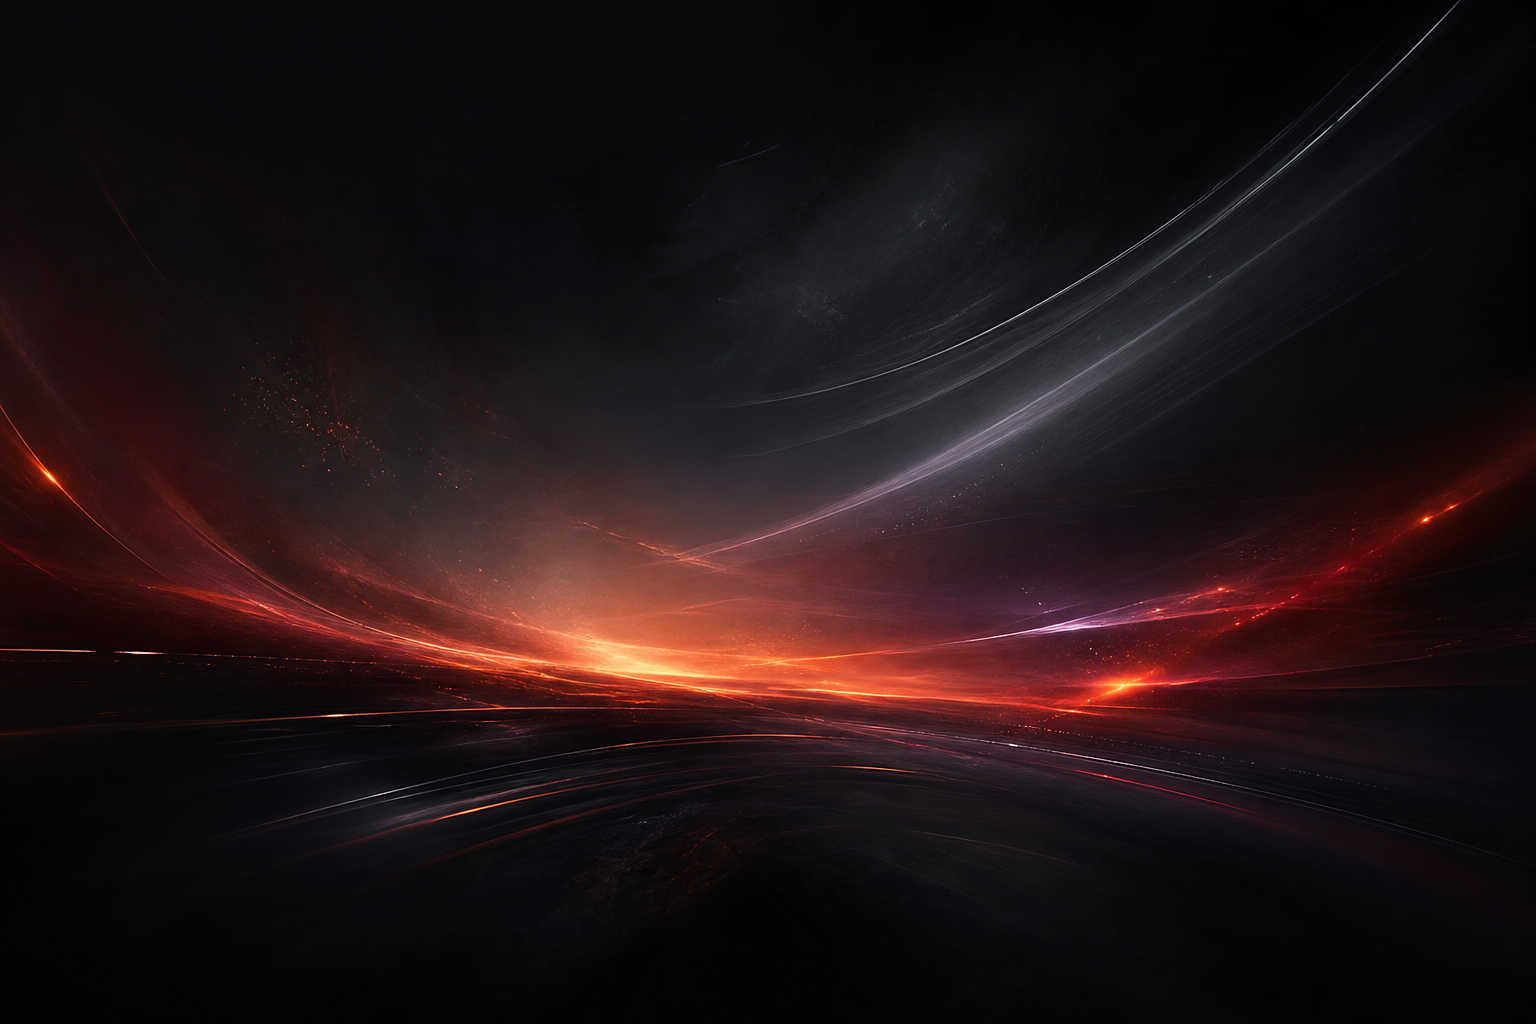
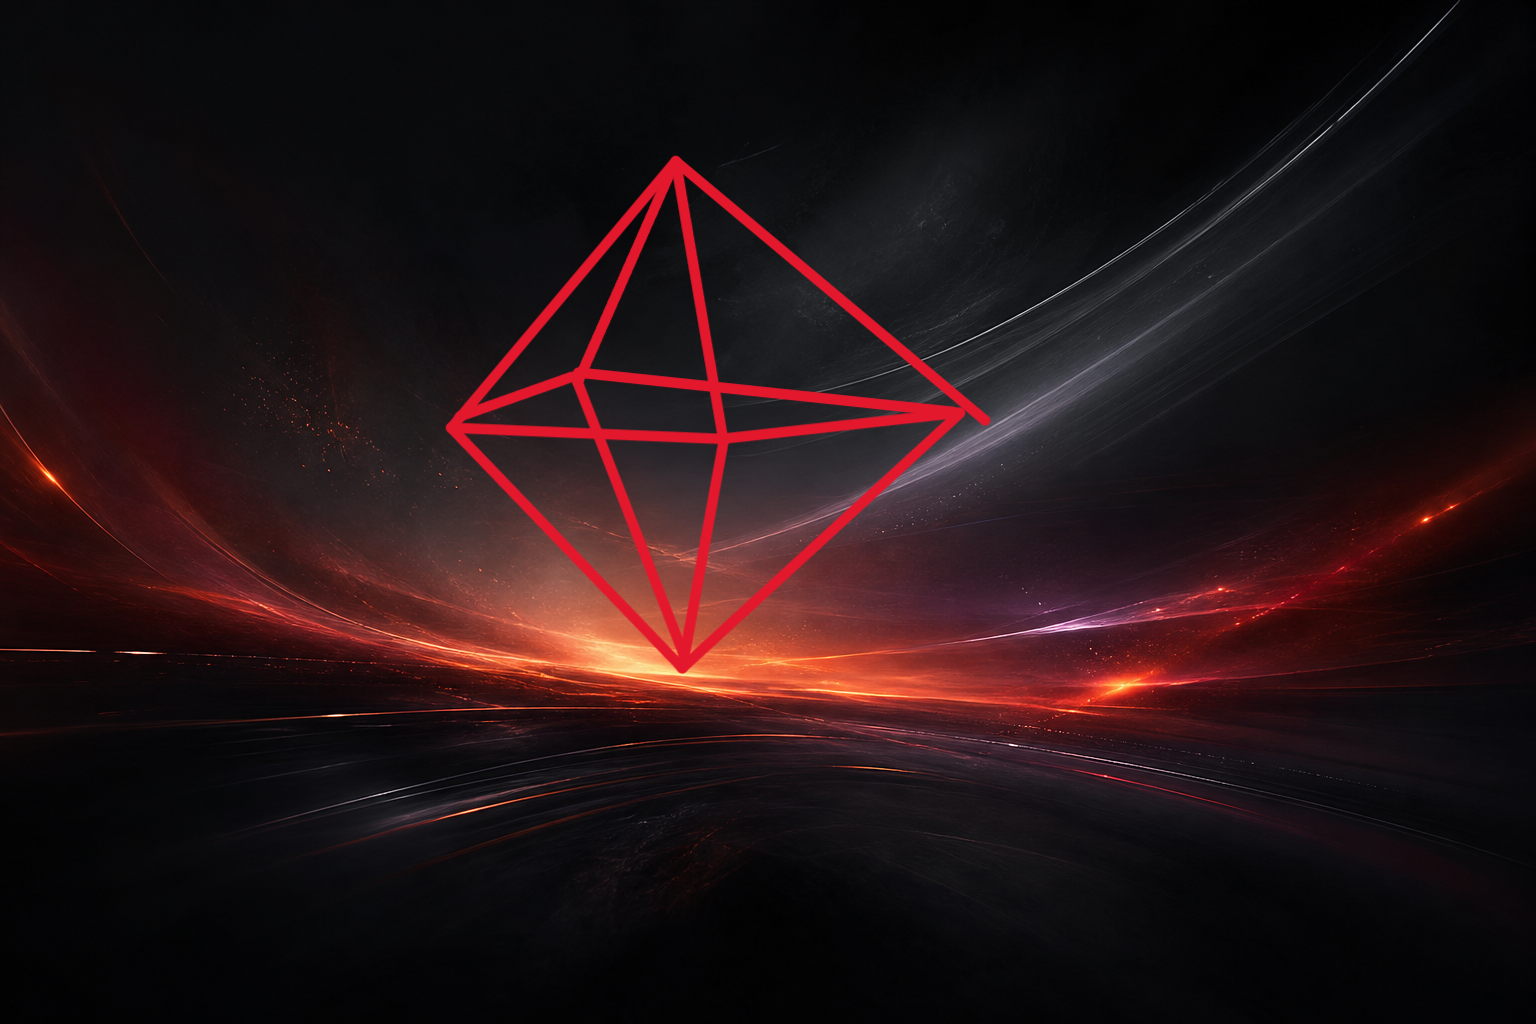
31/05/2026

Changed region(s): [[0.2812, 0.1562, 0.6562, 0.6562], [0.5625, 0.3125, 0.5938, 0.3438]]

diff --git a/src/app/home/home.page.scss b/src/app/home/home.page.scss
@@ -150,14 +150,14 @@ a {
   --diamond-rotate-x: -10deg;
   --diamond-rotate-y: -18deg;
   cursor: grab;
-  height: min(74vw, 390px);
+  height: min(72vw, 390px);
   max-height: 390px;
   max-width: 390px;
-  perspective: 1200px;
+  perspective: 1100px;
   position: relative;
   touch-action: none;
   user-select: none;
-  width: min(74vw, 390px);
+  width: min(72vw, 390px);
 }
 
 .diamond-stage:active {
@@ -166,10 +166,10 @@ a {
 
 .diamond-aura {
   background:
-    radial-gradient(circle, rgba(255, 122, 61, 0.34), transparent 58%),
-    radial-gradient(circle, rgba(255, 255, 255, 0.18), transparent 45%);
-  filter: blur(22px);
-  inset: 3%;
+    radial-gradient(ellipse at 50% 57%, rgba(255, 34, 57, 0.32), transparent 48%),
+    radial-gradient(ellipse at 50% 100%, rgba(255, 128, 52, 0.24), transparent 42%);
+  filter: blur(18px);
+  inset: 4% 0;
   opacity: 0.95;
   position: absolute;
 }
@@ -188,91 +188,74 @@ a {
   width: 100%;
 }
 
-.diamond-core::before,
-.diamond-core::after {
-  content: '';
-  inset: 0;
-  pointer-events: none;
-  position: absolute;
-}
-
-.diamond-core::before {
-  background:
-    linear-gradient(90deg, transparent 49.7%, rgba(255, 255, 255, 0.22) 50%, transparent 50.3%),
-    linear-gradient(0deg, transparent 49.7%, rgba(255, 255, 255, 0.18) 50%, transparent 50.3%);
-  transform: translateZ(197px);
-  z-index: 5;
-}
-
-.diamond-core::after {
-  background:
-    radial-gradient(circle at 35% 20%, rgba(255, 255, 255, 0.32), transparent 28%),
-    linear-gradient(135deg, rgba(255, 122, 61, 0.18), transparent 58%);
-  opacity: 0.45;
-  transform: translateZ(202px);
-  z-index: 6;
-}
-
-.diamond-face {
+.cube-face {
   align-items: center;
   background:
-    linear-gradient(145deg, rgba(255, 255, 255, 0.18), rgba(255, 122, 61, 0.1) 52%, rgba(5, 5, 6, 0.44)),
-    rgba(12, 12, 14, 0.82);
-  border: 1px solid rgba(255, 255, 255, 0.24);
+    radial-gradient(circle at 28% 18%, rgba(255, 255, 255, 0.16), transparent 28%),
+    linear-gradient(145deg, rgba(255, 94, 31, 0.22), rgba(255, 23, 54, 0.14) 42%, rgba(0, 0, 0, 0.74));
+  border: 1px solid rgba(255, 117, 52, 0.58);
   box-shadow:
-    inset 0 1px 18px rgba(255, 255, 255, 0.18),
-    inset 0 -20px 40px rgba(0, 0, 0, 0.22),
-    0 24px 60px rgba(0, 0, 0, 0.28);
-  backdrop-filter: blur(6px);
+    inset 0 1px 22px rgba(255, 255, 255, 0.1),
+    inset 0 -28px 48px rgba(0, 0, 0, 0.42),
+    0 0 18px rgba(255, 67, 36, 0.26);
   color: #fff8f1;
   display: grid;
-  gap: 0.35rem;
+  gap: 0.45rem;
   height: 100%;
-  justify-items: center;
   left: 0;
-  padding: 2.4rem;
+  padding: 2.1rem;
   place-content: center;
   position: absolute;
   text-align: center;
   top: 0;
   transform-style: preserve-3d;
   transition:
-    background 180ms ease,
     border-color 180ms ease,
-    box-shadow 180ms ease;
+    box-shadow 180ms ease,
+    background 180ms ease;
   width: 100%;
 }
 
-.diamond-face:hover {
-  background:
-    linear-gradient(145deg, rgba(255, 255, 255, 0.34), rgba(255, 151, 83, 0.24), rgba(228, 72, 34, 0.18)),
-    rgba(18, 14, 12, 0.72);
-  border-color: rgba(255, 159, 93, 0.7);
-  box-shadow:
-    inset 0 1px 22px rgba(255, 255, 255, 0.2),
-    0 28px 80px rgba(228, 72, 34, 0.24);
+.cube-face::before {
+  border: 1px solid rgba(255, 255, 255, 0.09);
+  content: '';
+  inset: 0.7rem;
+  pointer-events: none;
+  position: absolute;
 }
 
-.diamond-face ion-icon,
-.diamond-face strong,
-.diamond-face span {
+.cube-face:hover {
+  background:
+    radial-gradient(circle at 28% 18%, rgba(255, 255, 255, 0.22), transparent 28%),
+    linear-gradient(145deg, rgba(255, 124, 53, 0.34), rgba(255, 23, 54, 0.2) 42%, rgba(0, 0, 0, 0.68));
+  border-color: rgba(255, 154, 95, 0.95);
+  box-shadow:
+    inset 0 1px 24px rgba(255, 255, 255, 0.14),
+    inset 0 -28px 48px rgba(0, 0, 0, 0.42),
+    0 0 32px rgba(255, 67, 36, 0.44);
+}
+
+.cube-face ion-icon,
+.cube-face strong,
+.cube-face span {
   position: relative;
   z-index: 1;
 }
 
-.diamond-face ion-icon {
-  color: #ff9a5f;
-  font-size: 2rem;
+.cube-face ion-icon {
+  color: #ff7a3d;
+  filter: drop-shadow(0 0 10px rgba(255, 67, 36, 0.72));
+  font-size: 2.1rem;
 }
 
-.diamond-face strong {
-  font-size: 1.15rem;
+.cube-face strong {
+  font-size: 1.12rem;
   line-height: 1.1;
 }
 
-.diamond-face span {
-  color: rgba(245, 241, 236, 0.64);
-  font-size: 0.74rem;
+.cube-face span {
+  color: rgba(245, 241, 236, 0.68);
+  font-size: 0.78rem;
   line-height: 1.25;
 }
 
@@ -298,31 +281,6 @@ a {
 
 .face-cv {
   transform: rotateY(180deg) translateZ(195px);
-}
-
-.diamond-center {
-  align-items: center;
-  background:
-    radial-gradient(circle at 35% 20%, rgba(255, 255, 255, 0.3), transparent 32%),
-    linear-gradient(135deg, rgba(255, 122, 61, 0.94), rgba(173, 31, 31, 0.92));
-  border: 1px solid rgba(255, 255, 255, 0.24);
-  box-shadow: 0 20px 70px rgba(228, 72, 34, 0.38);
-  color: #fff;
-  display: grid;
-  height: 5rem;
-  left: calc(50% - 2.5rem);
-  place-items: center;
-  position: absolute;
-  top: calc(50% - 2.5rem);
-  transform: translateZ(205px);
-  width: 5rem;
-}
-
-.diamond-center span {
-  font-size: 0.72rem;
-  font-weight: 900;
-  letter-spacing: 0.08em;
-  text-transform: uppercase;
 }
 
 .eyebrow {
@@ -871,23 +829,23 @@ ion-button[fill='outline'] {
   }
 
   .diamond-stage {
-    height: min(74vw, 280px);
-    width: min(74vw, 280px);
+    height: min(72vw, 280px);
+    width: min(72vw, 280px);
   }
 
-  .diamond-face {
-    padding: 1.2rem;
+  .cube-face {
+    padding: 1rem;
   }
 
-  .diamond-face ion-icon {
+  .cube-face ion-icon {
     font-size: 1.35rem;
   }
 
-  .diamond-face strong {
+  .cube-face strong {
     font-size: 0.82rem;
   }
 
-  .diamond-face span {
+  .cube-face span {
     display: none;
   }
 

diff --git a/src/app/home/home.page.html b/src/app/home/home.page.html
@@ -68,9 +68,10 @@
                   @for (face of diamondFaces; track face.title) {
                     @if (face.route) {
                       <a
-                        class="diamond-face"
+                        class="cube-face"
                         [ngClass]="face.className"
                         [routerLink]="face.route"
+                        [attr.aria-label]="face.title"
                       >
                         <ion-icon [name]="face.icon"></ion-icon>
                         <strong>{{ face.title }}</strong>
@@ -78,11 +79,12 @@
                       </a>
                     } @else {
                       <a
-                        class="diamond-face"
+                        class="cube-face"
                         [ngClass]="face.className"
                         [href]="face.href"
                         target="_blank"
                         rel="noreferrer"
+                        [attr.aria-label]="face.title"
                       >
                         <ion-icon [name]="face.icon"></ion-icon>
                         <strong>{{ face.title }}</strong>
@@ -90,12 +92,9 @@
                       </a>
                     }
                   }
-                  <div class="diamond-center">
-                    <span>Portafolio</span>
-                  </div>
                 </div>
               </div>
-              <p>Arrastra el cubo 3D y entra a cada cara del portafolio.</p>
+              <p>Arrastra el cubo 3D y abre cada seccion desde sus caras.</p>
             </section>
           </div>
         </section>